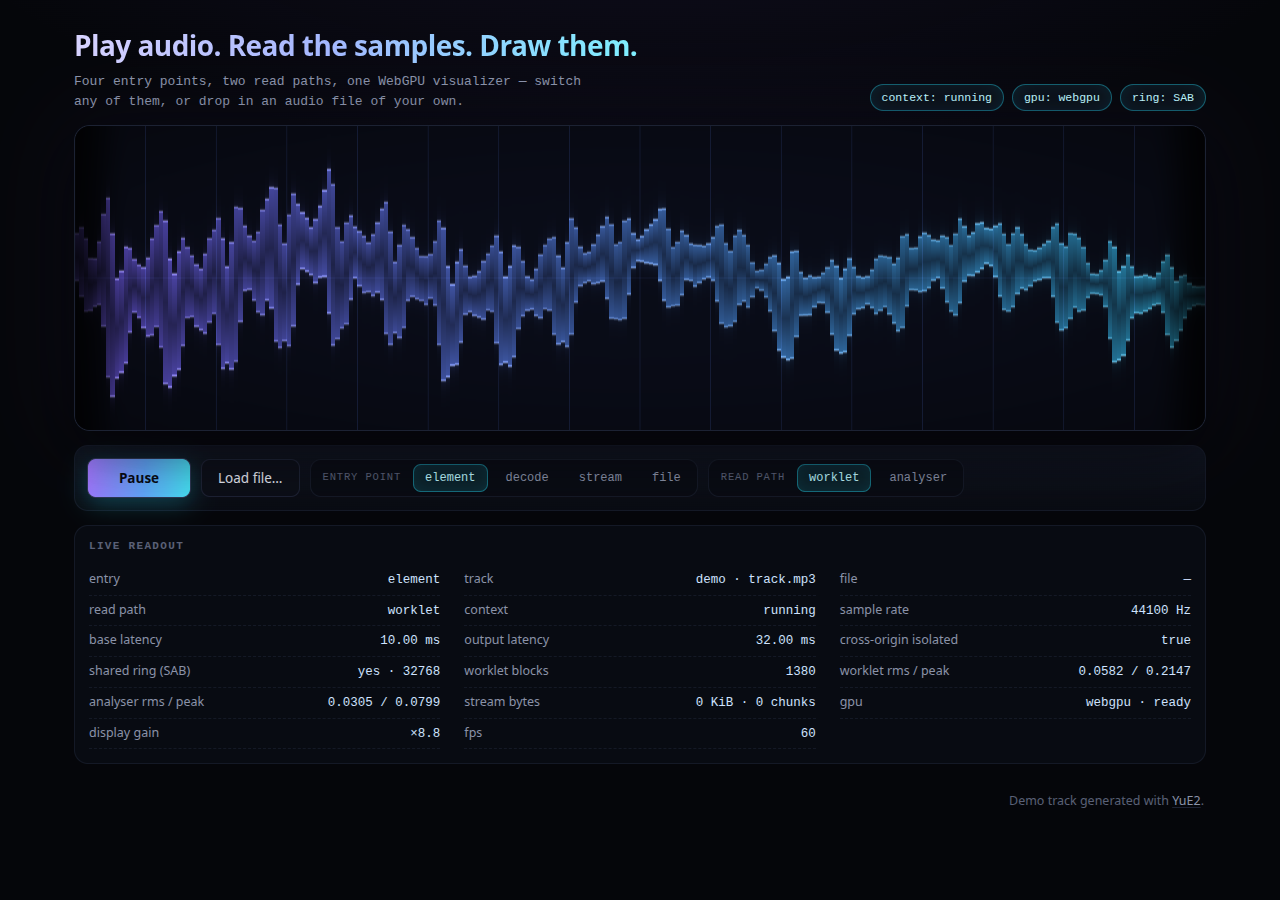
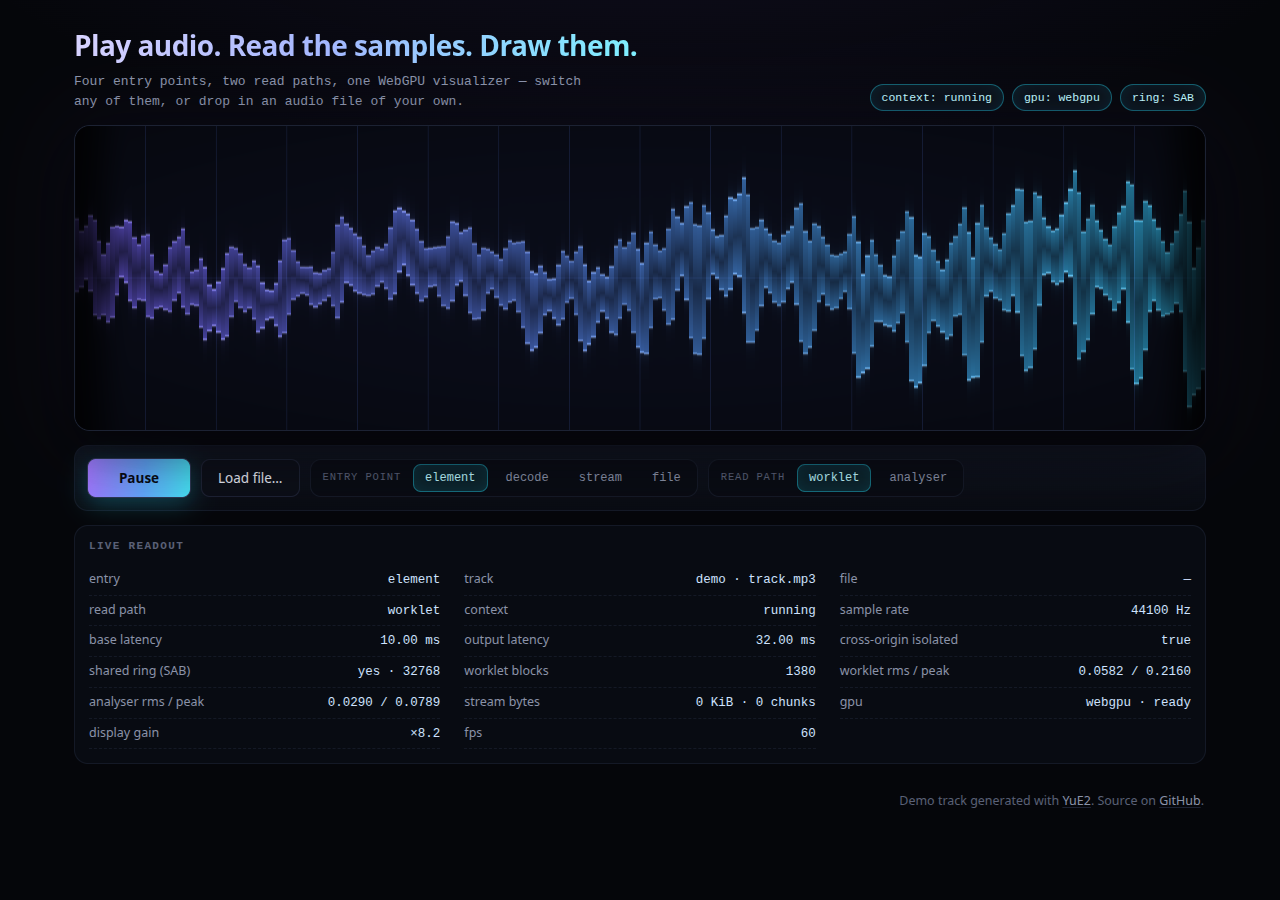
feat: link the source repo from the page footer
wave.ltlian.com credits YuE2 and now links its source on GitHub. The repo
links back via the GitHub website field and the README's live-demo line,
so the two point at each other.

Changed region(s): [[0.0625, 0.1867, 0.9375, 0.4356], [0.7188, 0.8711, 0.9375, 0.9022]]

diff --git a/index.html b/index.html
@@ -94,7 +94,8 @@
         Demo track generated with
         <a href="https://github.com/multimodal-art-projection/YuE" target="_blank" rel="noreferrer"
           >YuE2</a
-        >.
+        >. Source on
+        <a href="https://github.com/ltlian/wave-gpu" target="_blank" rel="noreferrer">GitHub</a>.
       </footer>
     </main>
 
